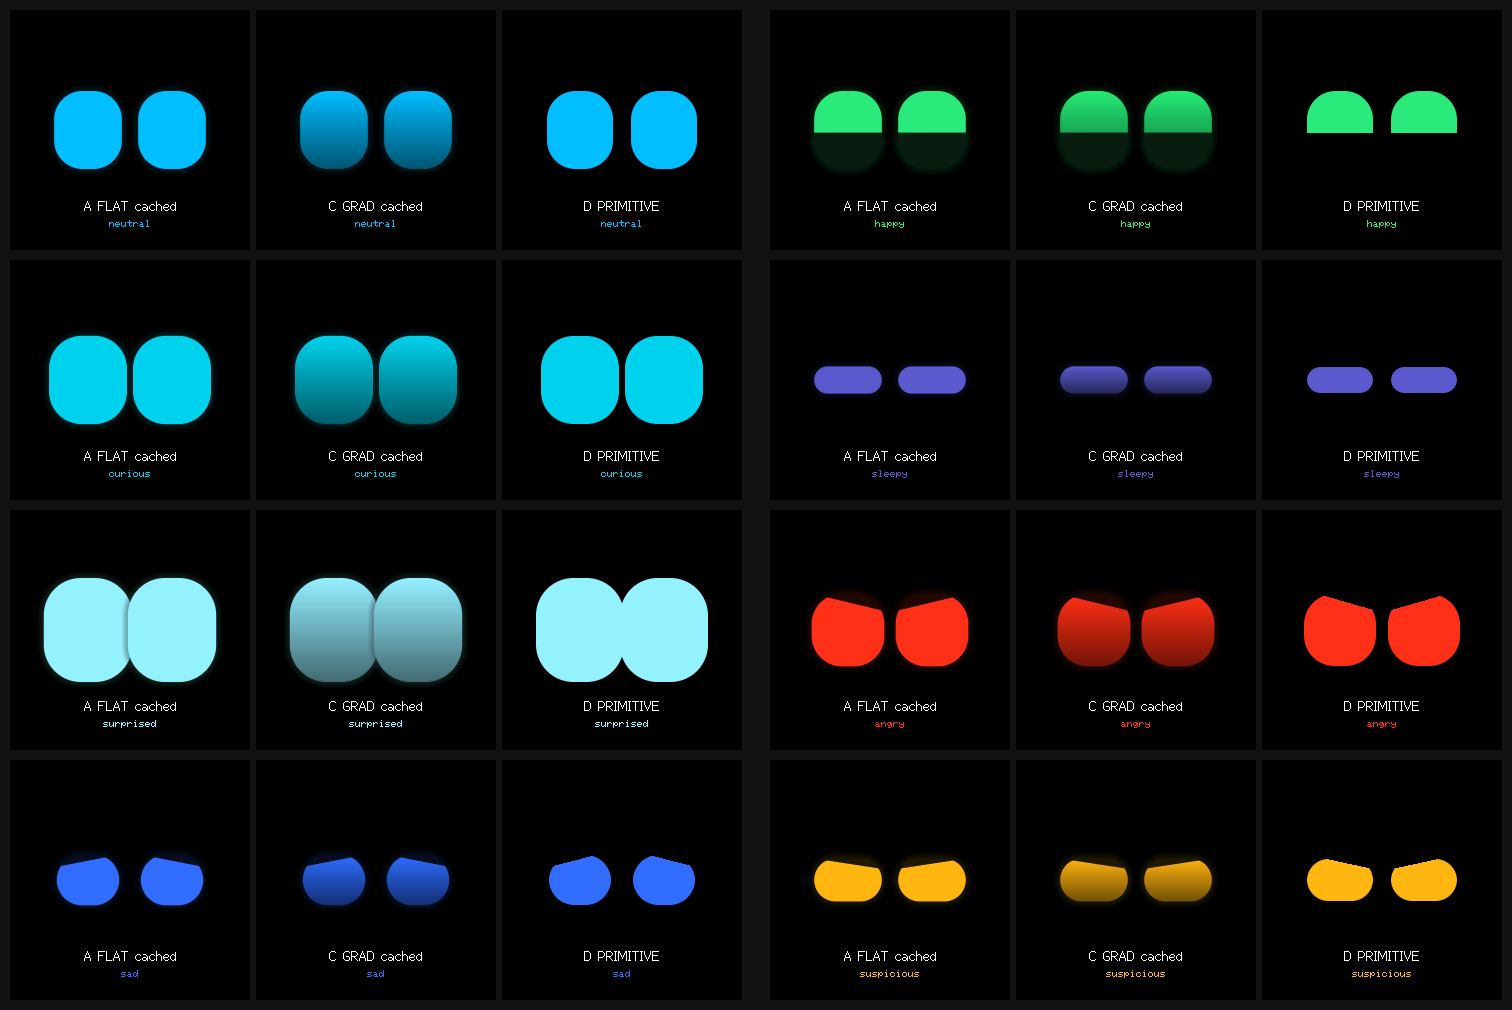
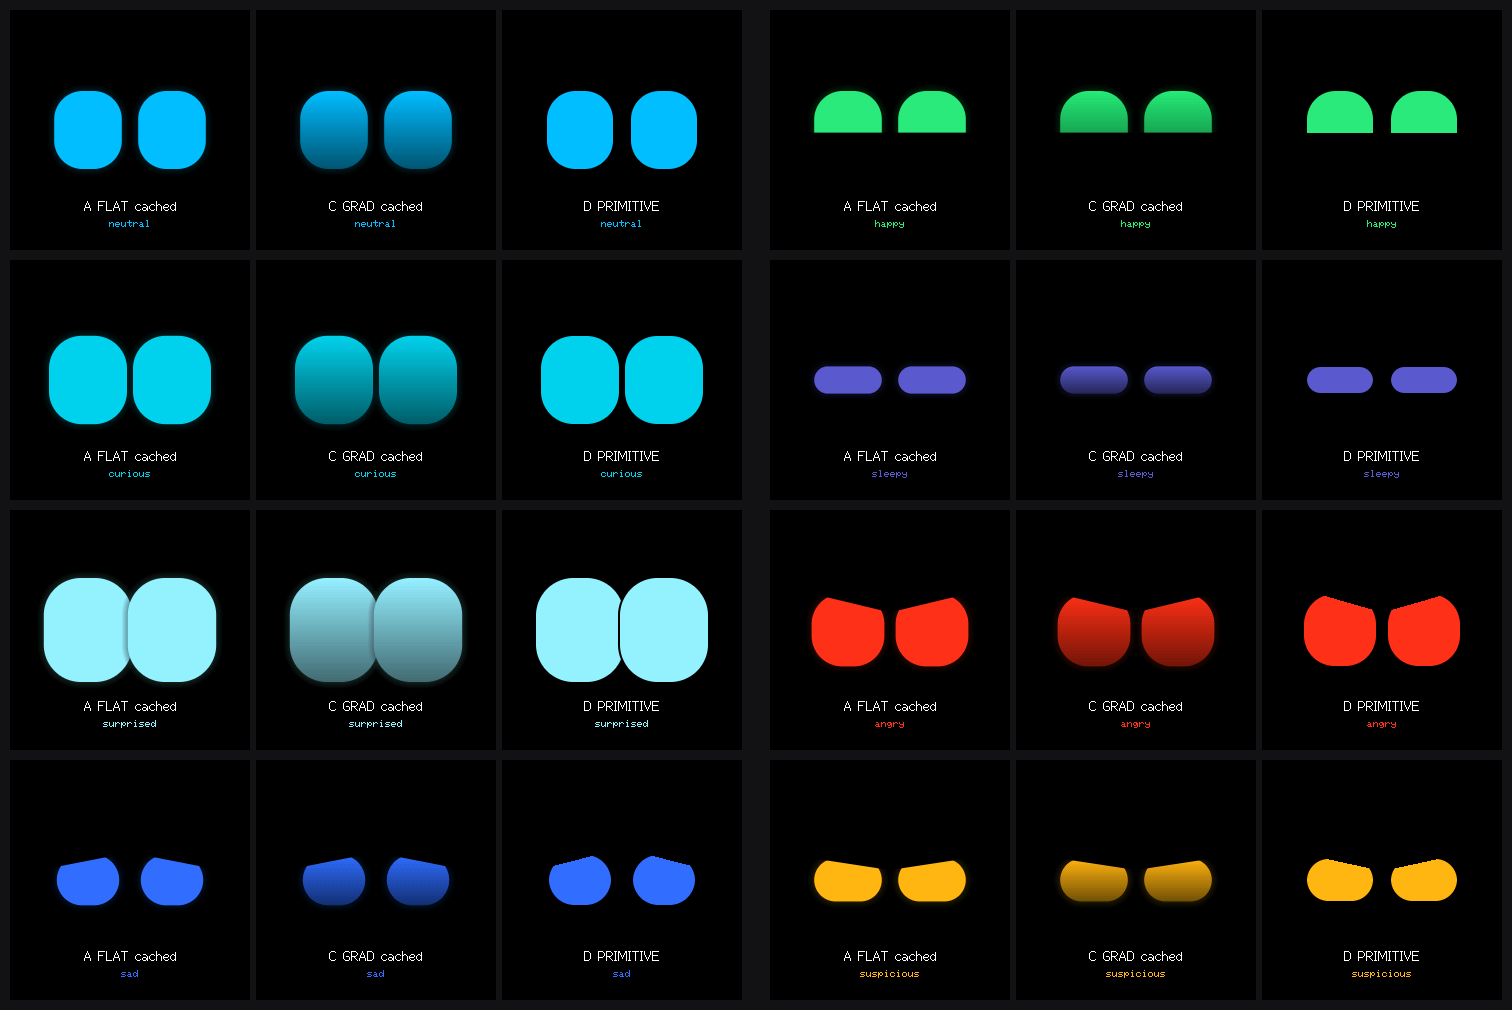
Fix glow ignoring the lid cut, and keep the seam on overlapping eyes
The lid cut multiplied only ecov, so the glow halo was still computed from the
uncut lozenge and filled the region the lid had removed. On happy the squint
takes the lower half of the eye, but the halo painted it dark green, so it
read as a half-lit block rather than a squint. The cut factor is now computed
once and applied to both the eye body and the glow — a lid that covers the eye
covers its glow too. Also visibly cleans up angry, sad and suspicious.

D PRIMITIVE now draws a 2 px black rim before each eye. It is invisible against
the black background, but where the eyes overlap on surprised it preserves the
seam so they read as two overlapping eyes rather than one merged blob — which
the SDF variants get for free from their anti-aliased edges. The lab liked the
overlap and missed it on D. Costs 2 fps (36.0 -> 34.1); the cached variants are
unchanged at 28.9 / 30.1 because the cut is baked in at cache-build time.

Contact sheet regenerated, all 24 dumps checksum-verified.

diff --git a/spikes/lovyangfx-gc9a01/main/main.cpp b/spikes/lovyangfx-gc9a01/main/main.cpp
@@ -138,20 +138,26 @@ void draw_eye_sdf(int cxi, int side, const Emotion& em, int open_pct,
       const float d = outside + fminf(fmaxf(qx, qy), 0.f) - r;
       if (d > 7.f) continue;
 
-      float ecov = clampf(0.5f - d, 0.f, 1.f);
-      const float gcov = clampf((7.f - d) / 7.f, 0.f, 1.f) * 0.5f;
-      if (ecov > 0.f) {
-        if (browAmt > 0.f) {
-          const float t = clampf((x + 0.5f - (cx - hw)) / eyeW, 0.f, 1.f);
-          const bool deep_right = (e.brow > 0) == (side == 0);
-          const float frac = deep_right ? t : 1.f - t;
-          ecov *= clampf((y + 0.5f) - (top + browAmt * frac) + 0.5f, 0.f, 1.f);
-        }
-        if (e.lift > 0) {
-          const float bot_y = cy + hh - e.lift * S;
-          ecov *= clampf(bot_y - (y + 0.5f) + 0.5f, 0.f, 1.f);
-        }
+      // The lid cut has to apply to the GLOW as well as the eye body. It used
+      // to multiply only ecov, so the halo was still computed from the uncut
+      // lozenge and filled in the region the lid had removed — most obvious on
+      // happy, where the squint left a dark block instead of black. A lid that
+      // covers the eye covers its glow too.
+      float cut = 1.f;
+      if (browAmt > 0.f) {
+        const float t = clampf((x + 0.5f - (cx - hw)) / eyeW, 0.f, 1.f);
+        const bool deep_right = (e.brow > 0) == (side == 0);
+        const float frac = deep_right ? t : 1.f - t;
+        cut *= clampf((y + 0.5f) - (top + browAmt * frac) + 0.5f, 0.f, 1.f);
       }
+      if (e.lift > 0) {
+        const float bot_y = cy + hh - e.lift * S;
+        cut *= clampf(bot_y - (y + 0.5f) + 0.5f, 0.f, 1.f);
+      }
+      if (cut <= 0.f) continue;
+
+      const float ecov = clampf(0.5f - d, 0.f, 1.f) * cut;
+      const float gcov = clampf((7.f - d) / 7.f, 0.f, 1.f) * 0.5f * cut;
 
       uint16_t col = base_col;
       if (ecov > 0.f && gradient) {
@@ -184,6 +190,11 @@ void draw_eye_prim(int cxi, int side, const Emotion& em, int open_pct, int gx, i
   if (r > hh) r = hh;
   const int left = cx - hw, top = cy - hh;
 
+  // A 2 px black rim before the fill. Invisible against the black background,
+  // but where the eyes overlap (surprised) it keeps a seam so they read as two
+  // overlapping eyes instead of merging into one blob — which the SDF variants
+  // get for free from their anti-aliased edges.
+  spr.fillSmoothRoundRect(left - 2, top - 2, hw * 2 + 4, hh * 2 + 4, r + 2, TFT_BLACK);
   spr.fillSmoothRoundRect(left, top, hw * 2, hh * 2, r,
                           spr.color565(em.r, em.g, em.b));
 
